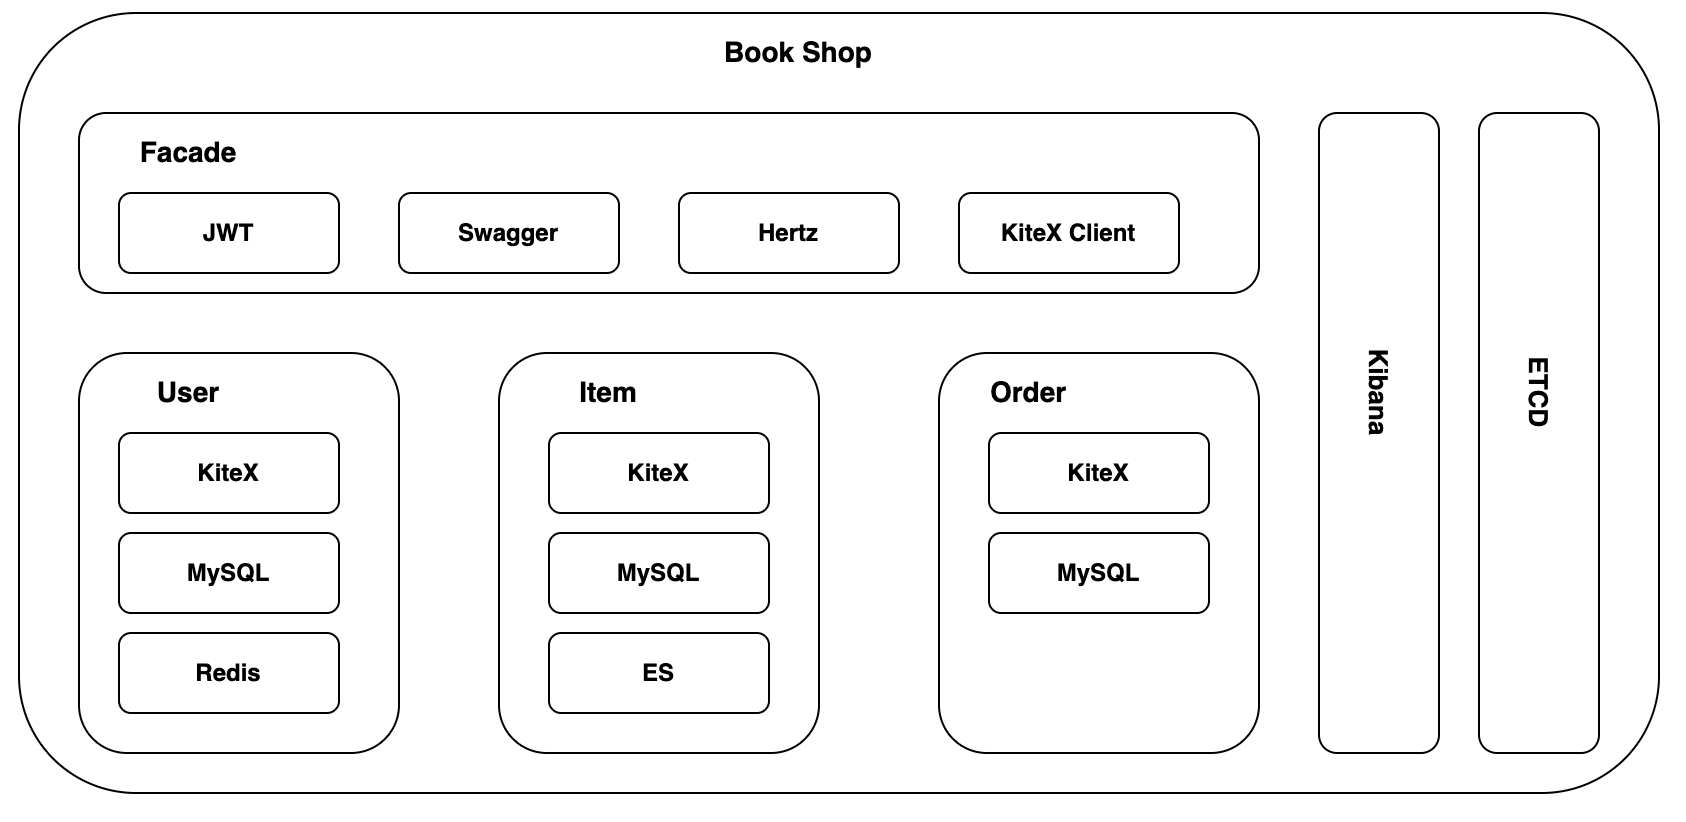
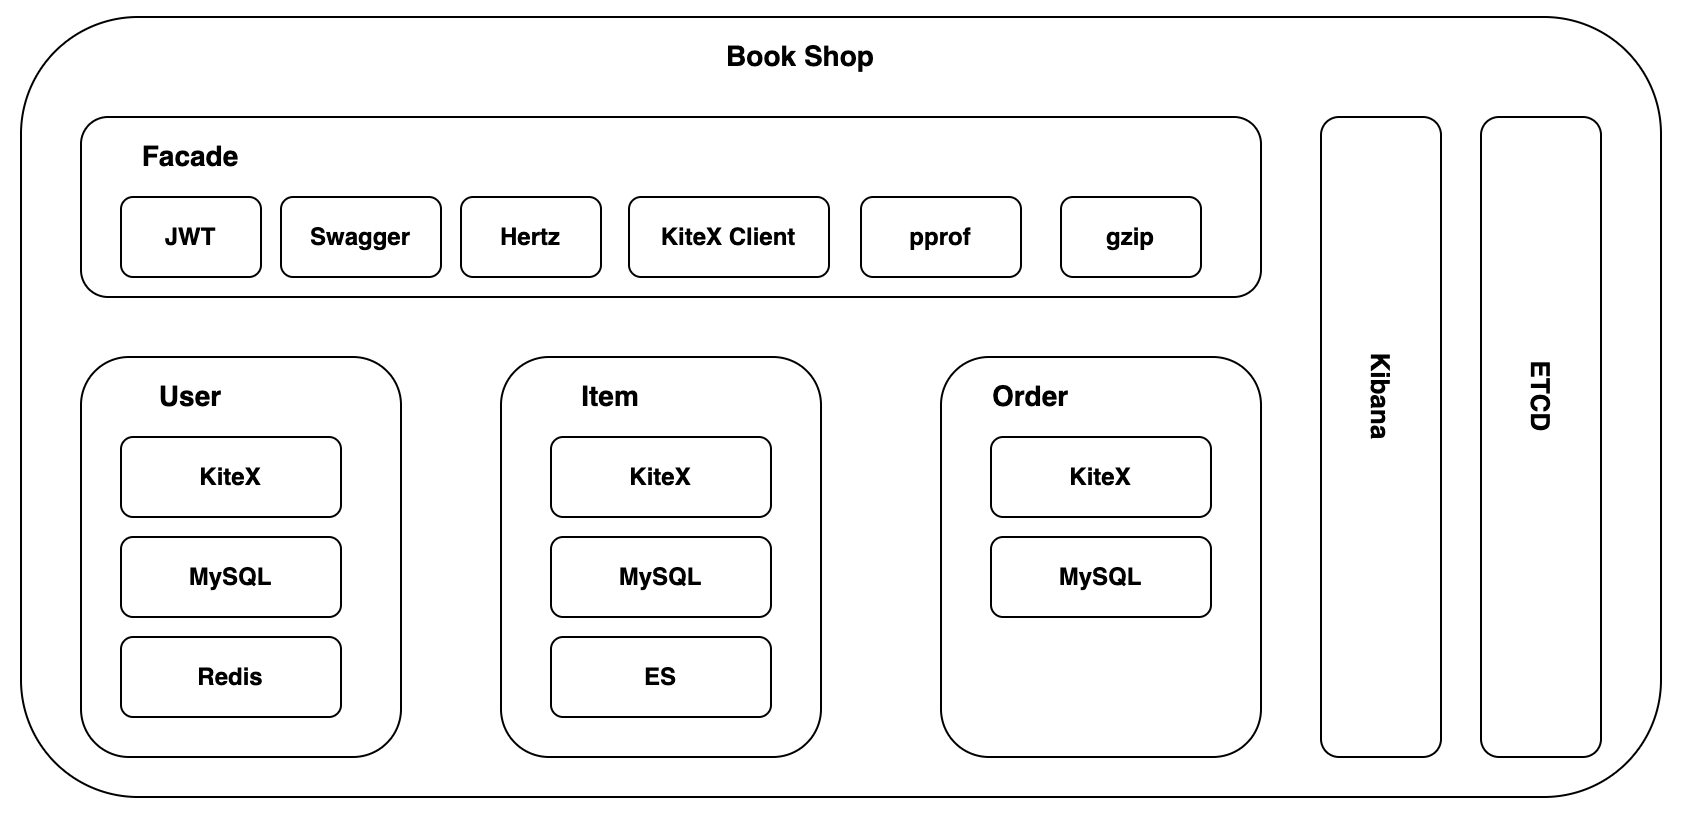
fix: format idl and go.mod, add license header

diff --git a/book-shop/app/user/service/user_service.go b/book-shop/app/user/service/user_service.go
@@ -1,3 +1,18 @@
+// Copyright 2022 CloudWeGo Authors
+//
+// Licensed under the Apache License, Version 2.0 (the "License");
+// you may not use this file except in compliance with the License.
+// You may obtain a copy of the License at
+//
+// http://www.apache.org/licenses/LICENSE-2.0
+//
+// Unless required by applicable law or agreed to in writing, software
+// distributed under the License is distributed on an "AS IS" BASIS,
+// WITHOUT WARRANTIES OR CONDITIONS OF ANY KIND, either express or implied.
+// See the License for the specific language governing permissions and
+// limitations under the License.
+//
+
 package service
 
 import (

diff --git a/book-shop/app/user/infras/db/init.go b/book-shop/app/user/infras/db/init.go
@@ -1,3 +1,18 @@
+// Copyright 2022 CloudWeGo Authors
+//
+// Licensed under the Apache License, Version 2.0 (the "License");
+// you may not use this file except in compliance with the License.
+// You may obtain a copy of the License at
+//
+// http://www.apache.org/licenses/LICENSE-2.0
+//
+// Unless required by applicable law or agreed to in writing, software
+// distributed under the License is distributed on an "AS IS" BASIS,
+// WITHOUT WARRANTIES OR CONDITIONS OF ANY KIND, either express or implied.
+// See the License for the specific language governing permissions and
+// limitations under the License.
+//
+
 package db
 
 import (

diff --git a/book-shop/README.md b/book-shop/README.md
@@ -1,5 +1,7 @@
 # Book Shop
 
+maintainer: [bodhisatan](https://github.com/bodhisatan)
+
 ## Introduction
 An e-commerce demo built with `Kitex` and `Hertz`.
 
@@ -19,6 +21,8 @@ An e-commerce demo built with `Kitex` and `Hertz`.
 * Hertz middlewares used
   * [swagger](http://github.com/hertz-contrib/swagger)
   * [JWT](http://github.com/hertz-contrib/jwt)
+  * [pprof](https://github.com/hertz-contrib/pprof)
+  * [gzip](https://github.com/hertz-contrib/gzip)
 
 ## Architecture
 ### Technology Architecture
@@ -48,7 +52,12 @@ $ make stop
 ### Get Documents & Run Test
 browse to [http://localhost:8080/swagger/index.html](http://localhost:8080/swagger/index.html)
 
-## Calling Examples
+## Examples
+### pprof
+```shell
+$ go tool pprof -http=:1234 http://localhost:8080/debug/pprof/heap
+```
+![](./pics/pprof.png)
 ### User Service
 #### User Register
 ![](./pics/register.png)
